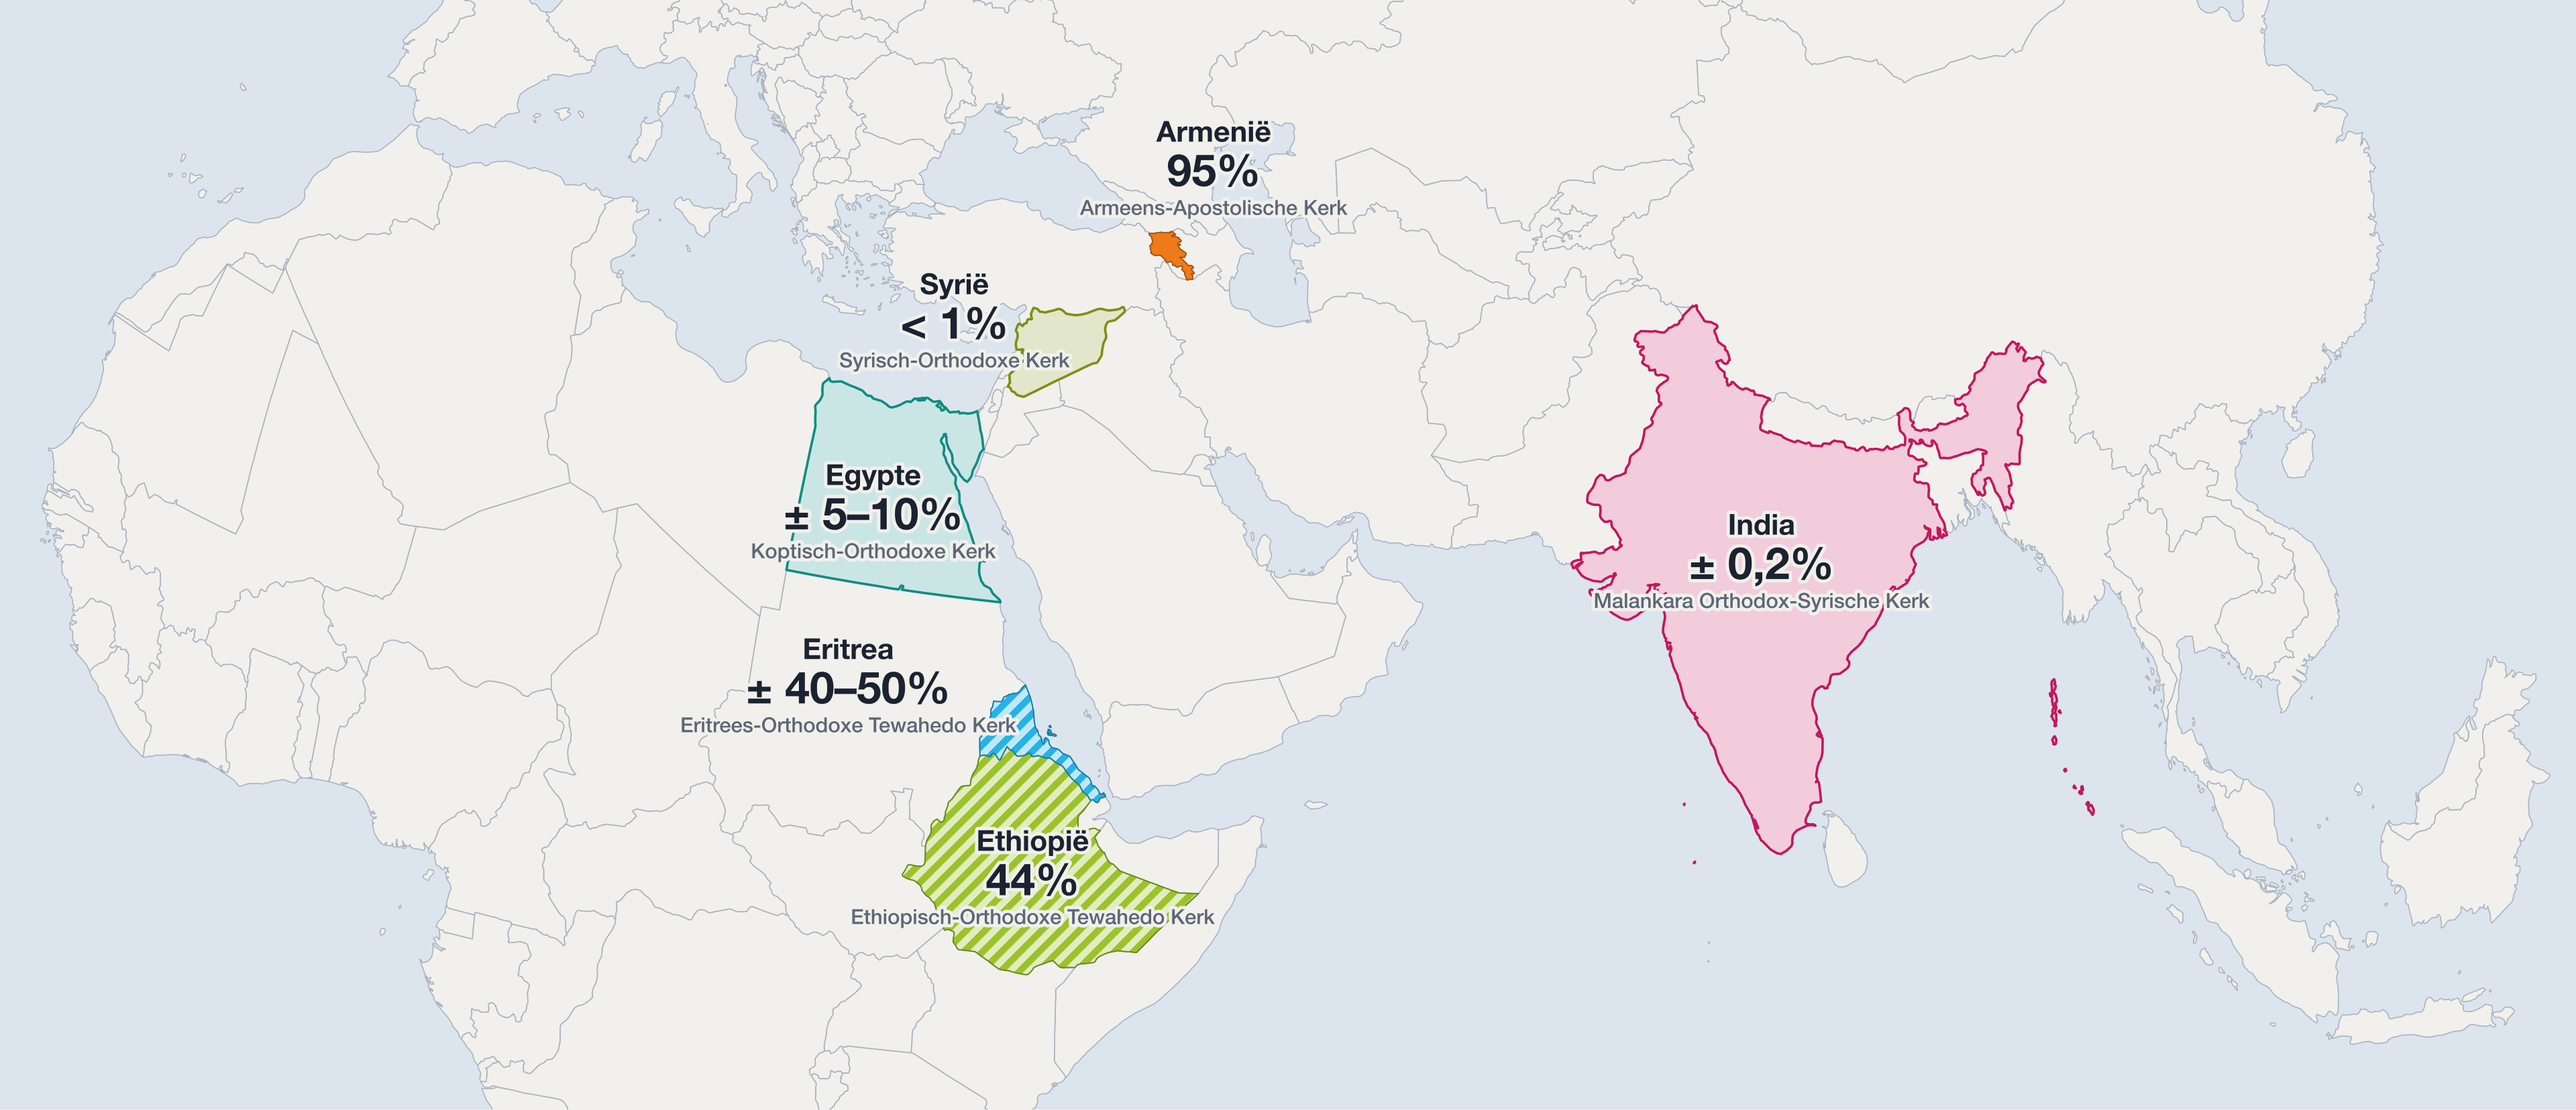
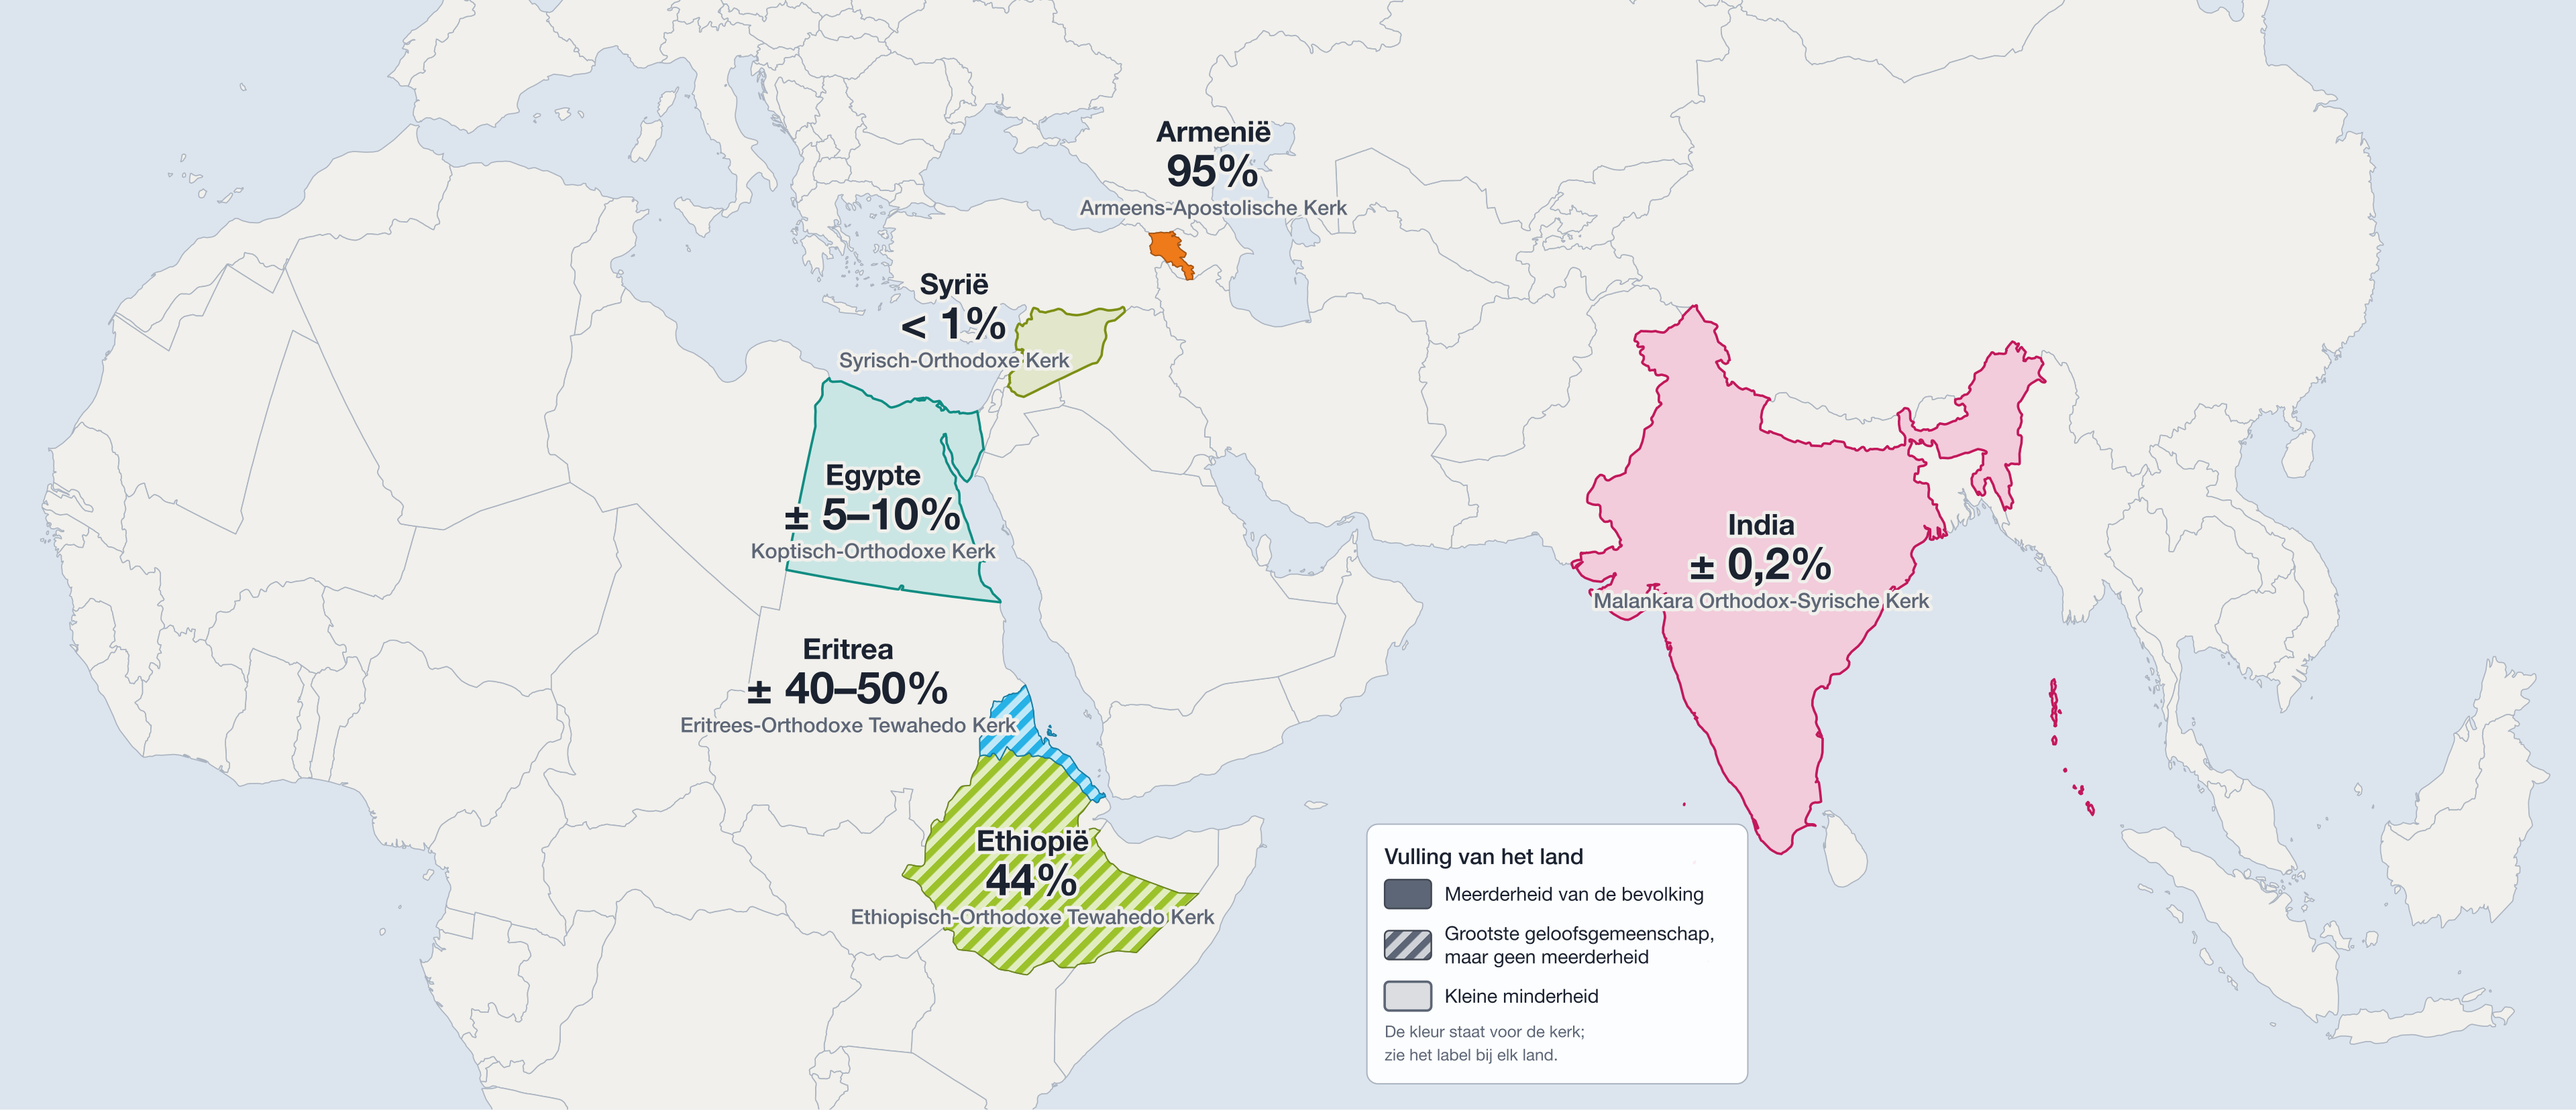
Map-only PNG: add a compact legend in the Arabian Sea
Explains the three fill styles so the image can be used on its own.

Changed region(s): [[0.5312, 0.7391, 0.6875, 0.9855]]

diff --git a/build_oriental.py b/build_oriental.py
@@ -284,16 +284,60 @@ def render_svg(rows, countries, updated):
     return "\n".join(out)
 
 
+INSET_LEGEND_AT = (56.5, 11.5)           # lon, lat of the top-left corner of the legend in the map-only image
+# The inset legend is narrow, so its longer texts are split over two lines.
+INSET_TEXT = {
+    "meerderheid": ["Meerderheid van de bevolking"],
+    "grootste": ["Grootste geloofsgemeenschap,", "maar geen meerderheid"],
+    "minderheid": ["Kleine minderheid"],
+    "note": ["De kleur staat voor de kerk;", "zie het label bij elk land."],
+}
+
+
+def inset_legend():
+    """A small legend box drawn on the map itself, for the map-only image."""
+    bx, by = EqualArea()(*INSET_LEGEND_AT)
+    pad, gap, sw, sh, fs, lh = 16 * S, 12 * S, 42 * S, 26 * S, 17 * S, 21 * S
+    longest = max(len(line) for key in CATEGORIES for line in INSET_TEXT[key])
+    width = pad * 2 + sw + 12 * S + longest * fs * 0.54
+    rows = [(key, INSET_TEXT[key]) for key in CATEGORIES]
+    height = (pad + 30 * S + sum(max(sh, lh * len(lines)) + gap for _, lines in rows)
+              + lh * len(INSET_TEXT["note"]) + pad)
+    swatches = {
+        "meerderheid": f'fill="{MUTED}" stroke="{render_stroke(MUTED)}" stroke-width="{1.5 * S:.1f}"',
+        "grootste": f'fill="url(#h-legend)" stroke="{render_stroke(MUTED)}" stroke-width="{1.5 * S:.1f}"',
+        "minderheid": f'fill="{tint(MUTED, 0.22)}" stroke="{MUTED}" stroke-width="{2.2 * S:.1f}"',
+    }
+    out = [f'<g><rect x="{bx:.1f}" y="{by:.1f}" width="{width:.1f}" height="{height:.1f}" rx="{10 * S}" '
+           f'fill="#ffffff" fill-opacity="0.92" stroke="{BORDER}" stroke-width="{1.2 * S:.1f}"/>',
+           text(bx + pad, by + pad + 20 * S, TEXT["legend"], f"{20 * S:.0f}", INK, weight=600)]
+    y = by + pad + 34 * S
+    for key, lines in rows:
+        block = max(sh, lh * len(lines))
+        out.append(f'<rect x="{bx + pad:.1f}" y="{y + (block - sh) / 2:.1f}" width="{sw:.1f}" height="{sh:.1f}" '
+                   f'rx="{4 * S}" {swatches[key]}/>')
+        ty = y + block / 2 - lh * (len(lines) - 1) / 2 + fs * 0.35
+        for i, line in enumerate(lines):
+            out.append(text(bx + pad + sw + 12 * S, ty + lh * i, line, f"{fs:.0f}", INK))
+        y += block + gap
+    for i, line in enumerate(INSET_TEXT["note"]):
+        out.append(text(bx + pad, y + 12 * S + lh * i, line, f"{15 * S:.0f}", MUTED))
+    out.append("</g>")
+    return "".join(out)
+
+
 def map_only(svg):
-    """The same drawing, cropped to the map frame (labels included, title/chart/legend left out)."""
+    """The same drawing, cropped to the map frame (labels included, title/chart/legend left out),
+    with a small legend on the map so the image can stand on its own."""
     x, y, w, h = (v * S for v in MAP)
     corner = f'rx="{14 * S}"'
     if svg.count(corner) != 2:
         raise BuildError("could not find the map frame corners to square them off")
     svg = svg.replace(corner, 'rx="0"')
     root = f'<svg xmlns="http://www.w3.org/2000/svg" width="{W}" height="{H}" viewBox="0 0 {W} {H}">'
-    return svg.replace(root, f'<svg xmlns="http://www.w3.org/2000/svg" width="{w:g}" height="{h:g}" '
-                             f'viewBox="{x:g} {y:g} {w:g} {h:g}">', 1)
+    svg = svg.replace(root, f'<svg xmlns="http://www.w3.org/2000/svg" width="{w:g}" height="{h:g}" '
+                            f'viewBox="{x:g} {y:g} {w:g} {h:g}">', 1)
+    return svg.replace("</svg>", inset_legend() + "\n</svg>", 1) if svg.endswith("</svg>") else svg
 
 
 def main():

diff --git a/README.md b/README.md
@@ -69,7 +69,7 @@ data/oriental-orthodox.csv       one row per country: church, colour, share, cat
 data/countries-region.geojson    country outlines (Natural Earth 1:50m), clipped to the region
 oriental-orthodox-nl.png  OUTPUT: home-countries map, 3600 x 2550 px (generated)
 oriental-orthodox-nl.pdf  OUTPUT: the same as a vector PDF, 1200 x 850 mm (generated)
-oriental-orthodox-nl-kaart.png  OUTPUT: only the map part, 3840 x 1656 px, for screens (generated)
+oriental-orthodox-nl-kaart.png  OUTPUT: only the map part with a small legend, 3840 x 1656 px, for screens (generated)
 ```
 
 ---
@@ -225,7 +225,7 @@ A Dutch-language map of the six Oriental Orthodox churches and their home countr
 
 - `oriental-orthodox-nl.png`: the full map with title, chart and legend.
 - `oriental-orthodox-nl.pdf`: the same as a vector PDF for print.
-- `oriental-orthodox-nl-kaart.png`: only the map part, labels included, without title, chart and legend. It is 3840 px wide (4K) and meant for screens, slides and websites. It is drawn from the same vector drawing as the PDF, not cropped from a bitmap. To change its width, set `MAP_PNG_WIDTH` in `build_oriental.py`.
+- `oriental-orthodox-nl-kaart.png`: only the map part, labels included, without title and chart. A compact legend explaining the three fill styles sits in the Arabian Sea, so the image can stand on its own; its position is `INSET_LEGEND_AT` in `build_oriental.py`. It is 3840 px wide (4K) and meant for screens, slides and websites. It is drawn from the same vector drawing as the PDF, not cropped from a bitmap. To change its width, set `MAP_PNG_WIDTH` in `build_oriental.py`.
 
 Each country is coloured by its church. The **fill style** shows how large the church is in that country:
 - **Solid:** the church is followed by a majority of the population.
